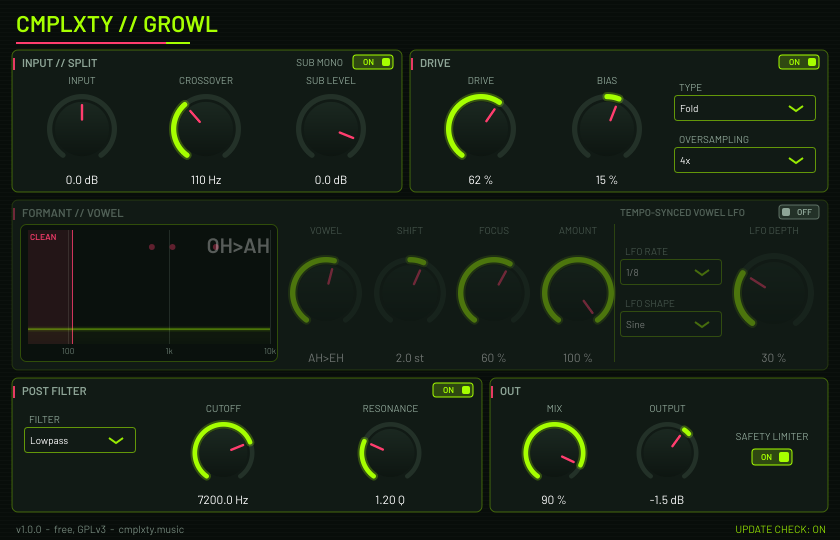
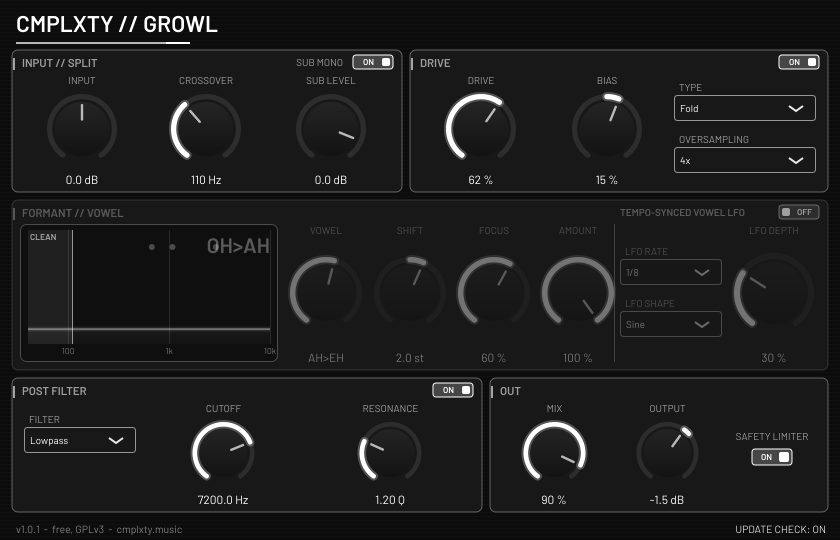
Growl 1.0.1: monochrome UI (colours only, focus code unchanged); update check reads version.json's mac block on macOS

diff --git a/growl-saturator/src/PluginEditor.cpp b/growl-saturator/src/PluginEditor.cpp
@@ -3,7 +3,7 @@
 
 namespace
 {
-const juce::Colour kBg (0xff080d0a), kPanel (0xff111a15), kPri (0xffa6ff00), kSec (0xffff3d6e), kDim (0xff8ea597), kTrack (0xff233128);
+const juce::Colour kBg (0xff0c0c0c), kPanel (0xff181818), kPri (0xffffffff), kSec (0xffb8b8b8), kDim (0xff9f9f9f), kTrack (0xff2d2d2d);
 constexpr int kFooterH = 22;
 
 using gwui::uiFont;
@@ -92,7 +92,7 @@ void PopupOverlay::paint (juce::Graphics& g)
 {
     if (! open) return;
     g.setColour (juce::Colours::black.withAlpha (0.35f)); g.fillRoundedRectangle (panel.translated (2, 3).toFloat(), 6.0f);
-    g.setColour (juce::Colour (0xff17231c)); g.fillRoundedRectangle (panel.toFloat(), 6.0f);
+    g.setColour (juce::Colour (0xff202020)); g.fillRoundedRectangle (panel.toFloat(), 6.0f);
     g.setColour (kPri.withAlpha (0.7f)); g.drawRoundedRectangle (panel.toFloat().reduced (0.5f), 6.0f, 1.0f);
     const auto f = uiFont (13.0f);
     for (int i = 0; i < (int) items.size(); ++i)
@@ -163,7 +163,7 @@ void UpdateBanner::show (const gw::upd::Info& i)
 void UpdateBanner::paint (juce::Graphics& g)
 {
     auto r = getLocalBounds().toFloat();
-    g.setColour (juce::Colour (0xff17231c)); g.fillRoundedRectangle (r, 6.0f);
+    g.setColour (juce::Colour (0xff202020)); g.fillRoundedRectangle (r, 6.0f);
     g.setColour (kSec.withAlpha (0.85f)); g.drawRoundedRectangle (r.reduced (0.5f), 6.0f, 1.0f);
     g.setColour (kSec); g.fillEllipse (10.0f, r.getCentreY() - 3.0f, 6.0f, 6.0f);
     g.setColour (juce::Colours::white); g.setFont (uiFont (12.0f, true));
@@ -208,7 +208,7 @@ void GrowlEditor::Look::drawRotarySlider (juce::Graphics& g, int x, int y, int w
     const float ring = juce::jmax (3.0f, d * 0.075f), rr = r - ring * 0.5f;
     const float ang = a0 + pos * (a1 - a0);
     // knob body
-    g.setGradientFill (juce::ColourGradient (juce::Colour (0xff1d2b23), c.x, c.y - r, juce::Colour (0xff0c130f), c.x, c.y + r, false));
+    g.setGradientFill (juce::ColourGradient (juce::Colour (0xff272727), c.x, c.y - r, juce::Colour (0xff111111), c.x, c.y + r, false));
     g.fillEllipse (c.x - rr + ring, c.y - rr + ring, (rr - ring) * 2.0f, (rr - ring) * 2.0f);
     // track
     juce::Path track; track.addCentredArc (c.x, c.y, rr, rr, 0.0f, a0, a1, true);
@@ -267,7 +267,7 @@ void VowelView::timerCallback()
 void VowelView::paint (juce::Graphics& g)
 {
     const auto r = getLocalBounds().toFloat();
-    g.setColour (juce::Colour (0xff0a110d)); g.fillRoundedRectangle (r, 6.0f);
+    g.setColour (juce::Colour (0xff0f0f0f)); g.fillRoundedRectangle (r, 6.0f);
     g.setColour (kPri.withAlpha (0.25f)); g.drawRoundedRectangle (r.reduced (0.5f), 6.0f, 1.0f);
     const auto plot = r.reduced (8.0f, 6.0f).withTrimmedBottom (12.0f);
     const float f0 = 40.0f, f1 = 10000.0f;

diff --git a/growl-saturator/test/update_test.cpp b/growl-saturator/test/update_test.cpp
@@ -29,6 +29,17 @@ static void offline()
     // ---- version.json
     Info i;
     const juce::String good = R"j({"version":"1.0.2","url":"https://cmplxty.music/plugins/growl-saturator/","installer":"https://cmplxty.music/plugins/growl-saturator/CMPLXTY-Growl-Setup-1.0.0-win.exe","notes":"Gender fix"})j";
+    { // "mac" block: used only when useMacBlock() (true on macOS), falls back to top level
+        const char* mj = R"j({"version":"1.0.5","url":"https://cmplxty.music/a.exe","mac":{"version":"1.0.6","url":"https://cmplxty.music/a.pkg","installer":"a.pkg","sha256":"00","size":1,"notes":"m"}})j";
+        Info mi; useMacBlock() = false;
+        CHECK (parseInfo (mj, mi) && mi.version == "1.0.5" && mi.url.endsWith (".exe"));
+        useMacBlock() = true;
+        CHECK (parseInfo (mj, mi) && mi.version == "1.0.6" && mi.url.endsWith (".pkg") && mi.installer == "a.pkg" && mi.notes == "m");
+        CHECK (parseInfo (R"j({"version":"1.0.5","url":"https://cmplxty.music/a.exe"})j", mi) && mi.version == "1.0.5");
+        CHECK (parseInfo (R"j({"version":"1.0.5","url":"https://cmplxty.music/a.exe","mac":{"version":""}})j", mi) && mi.version == "1.0.5");
+        CHECK (! parseInfo (R"j({"version":"1.0.5","url":"https://cmplxty.music/a.exe","mac":{"version":"1.0.6","url":"https://evil.example/a.pkg"}})j", mi));
+        useMacBlock() = false;
+    }
     CHECK (parseInfo (good, i) && i.version == "1.0.2" && i.url == "https://cmplxty.music/plugins/growl-saturator/" && i.installer.endsWith ("CMPLXTY-Growl-Setup-1.0.0-win.exe") && i.notes == "Gender fix");
     CHECK (parseInfo (R"j({"version":"1.0.2","url":"https://cmplxty.music/plugins/growl-saturator/"})j", i) && i.installer.isEmpty() && i.notes.isEmpty());
     // the shape the listing publishes: url = direct installer URL, "Update" opens its folder page

diff --git a/growl-saturator/src/UpdateCheck.h b/growl-saturator/src/UpdateCheck.h
@@ -65,15 +65,36 @@ inline juce::String pageForUrl (const juce::String& url)
     return url;
 }
 
+// true on macOS; tests can flip it to exercise the "mac" block on other platforms
+inline bool& useMacBlock()
+{
+   #if JUCE_MAC
+    static bool b = true;
+   #else
+    static bool b = false;
+   #endif
+    return b;
+}
+
 inline bool parseInfo (const juce::String& text, Info& out, bool requireTrustedUrl = true)
 {
     juce::var v;
     if (text.length() > kMaxBytes || ! juce::JSON::parse (text, v).wasOk() || ! v.isObject()) return false;
+    // On macOS a "mac" block { version, url, installer, sha256, size, notes } wins when it has a version and url;
+    // otherwise (and on Windows/Linux) the top-level fields are used.
+    juce::var src = v;
+    if (useMacBlock())
+    {
+        const auto m = v.getProperty ("mac", {});
+        if (m.isObject() && m.getProperty ("version", {}).toString().trim().isNotEmpty()
+                         && m.getProperty ("url", {}).toString().trim().isNotEmpty())
+            src = m;
+    }
     Info i;
-    i.version = v.getProperty ("version", {}).toString().trim();
-    i.url = v.getProperty ("url", {}).toString().trim();
-    i.installer = v.getProperty ("installer", {}).toString().trim();
-    i.notes = v.getProperty ("notes", {}).toString().trim().substring (0, 400);
+    i.version = src.getProperty ("version", {}).toString().trim();
+    i.url = src.getProperty ("url", {}).toString().trim();
+    i.installer = src.getProperty ("installer", {}).toString().trim();
+    i.notes = src.getProperty ("notes", {}).toString().trim().substring (0, 400);
     int dummy[4];
     if (! parseVersion (i.version, dummy)) return false;
     if (requireTrustedUrl && ! isTrustedUrl (i.url)) return false;
